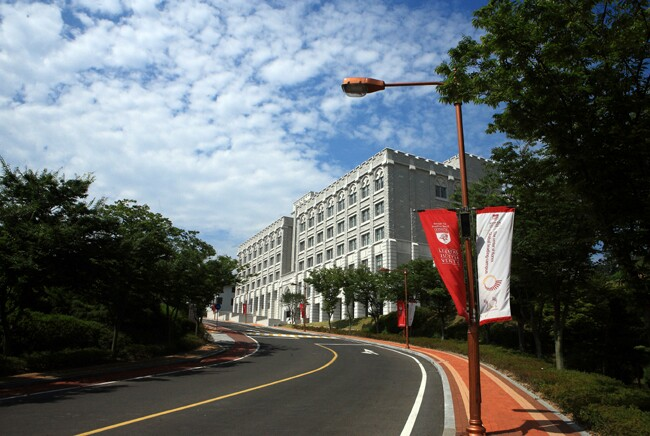
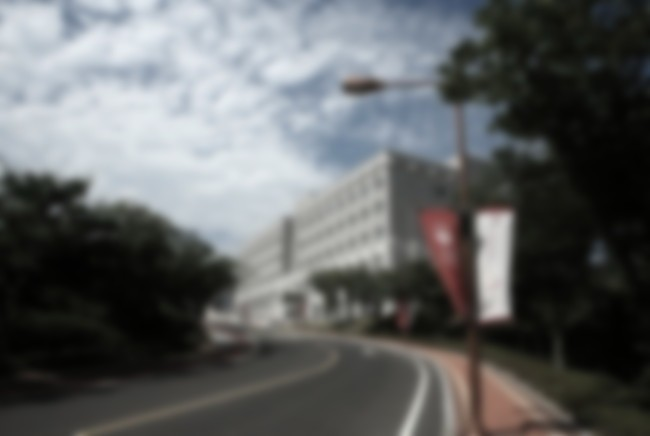
IE 호환을 위해 미리 블러 처리된 백그라운드 이미지 사용. filter 태그 제거.

diff --git a/public/stylesheets/base.css b/public/stylesheets/base.css
@@ -62,11 +62,15 @@
     width: 100%;
     height: calc(100% - 55.54px);
 
-    -webkit-filter: blur(var(--blur-background-image)) grayscale(var(--grayscale-background-image));
-    -moz-filter: blur(var(--blur-background-image)) grayscale(var(--grayscale-background-image));
-    -o-filter: blur(var(--blur-background-image)) grayscale(var(--grayscale-background-image));
-    -ms-filter: blur(var(--blur-background-image)) grayscale(var(--grayscale-background-image));
-    filter: blur(var(--blur-background-image)) grayscale(var(--grayscale-background-image));
+    /* http://stackoverflow.com/questions/30506194/css3-filter-not-working-on-element-in-ie-10 */
+    /*filter: progid:DXImageTransform.Microsoft.Blur(PixelRadius='5');*/
+
+    /*-webkit-filter: blur(var(--blur-background-image)) grayscale(var(--grayscale-background-image));*/
+    /*-moz-filter: blur(var(--blur-background-image)) grayscale(var(--grayscale-background-image));*/
+    /*-o-filter: blur(var(--blur-background-image)) grayscale(var(--grayscale-background-image));*/
+    /*-ms-filter: blur(var(--blur-background-image)) grayscale(var(--grayscale-background-image));*/
+
+    /*filter: blur(var(--blur-background-image)) grayscale(var(--grayscale-background-image));*/
 }
 
 

diff --git a/app.js b/app.js
@@ -10,6 +10,8 @@ var cors = require('cors');
 var mysql = require('./mod/dbms');
 // https://www.npmjs.com/package/url-pattern (Extract parameters)
 
+// https://www.digitalocean.com/community/tutorials/how-to-install-and-configure-redis-on-ubuntu-16-04
+
 var app = express();
 app.use(session(
     {

diff --git a/config.js b/config.js
@@ -1,5 +1,5 @@
 exports.DEBUG = false;
-exports.EXPOSE_SSODEBUG = true;
+exports.EXPOSE_SSODEBUG = false;
 
 exports.SSO_UNSECURE = false;
 
